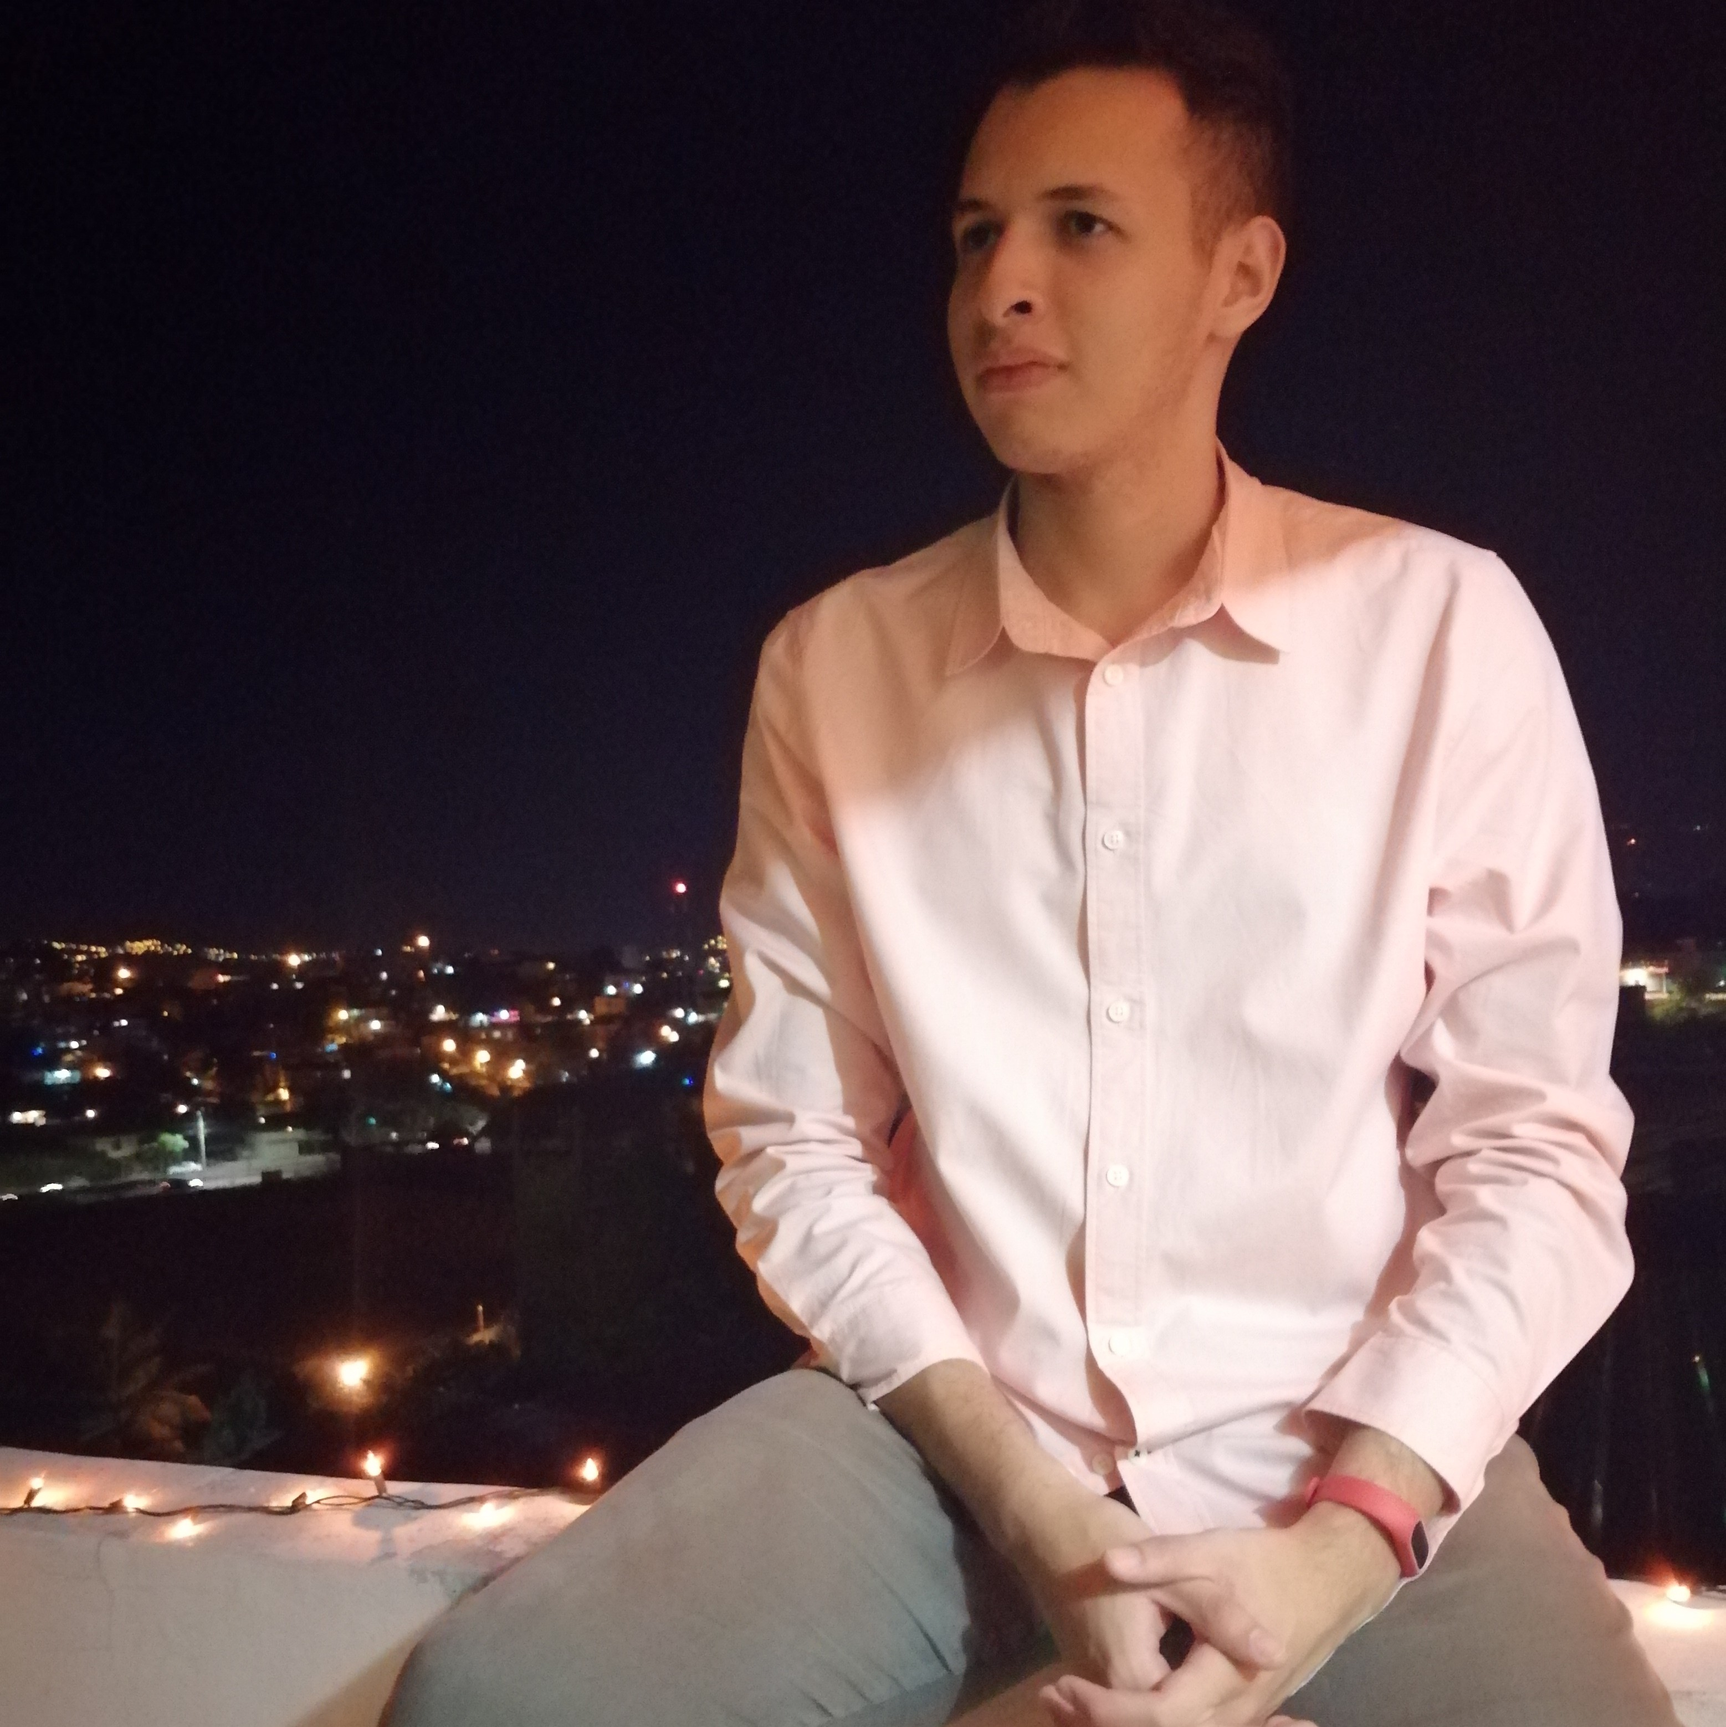
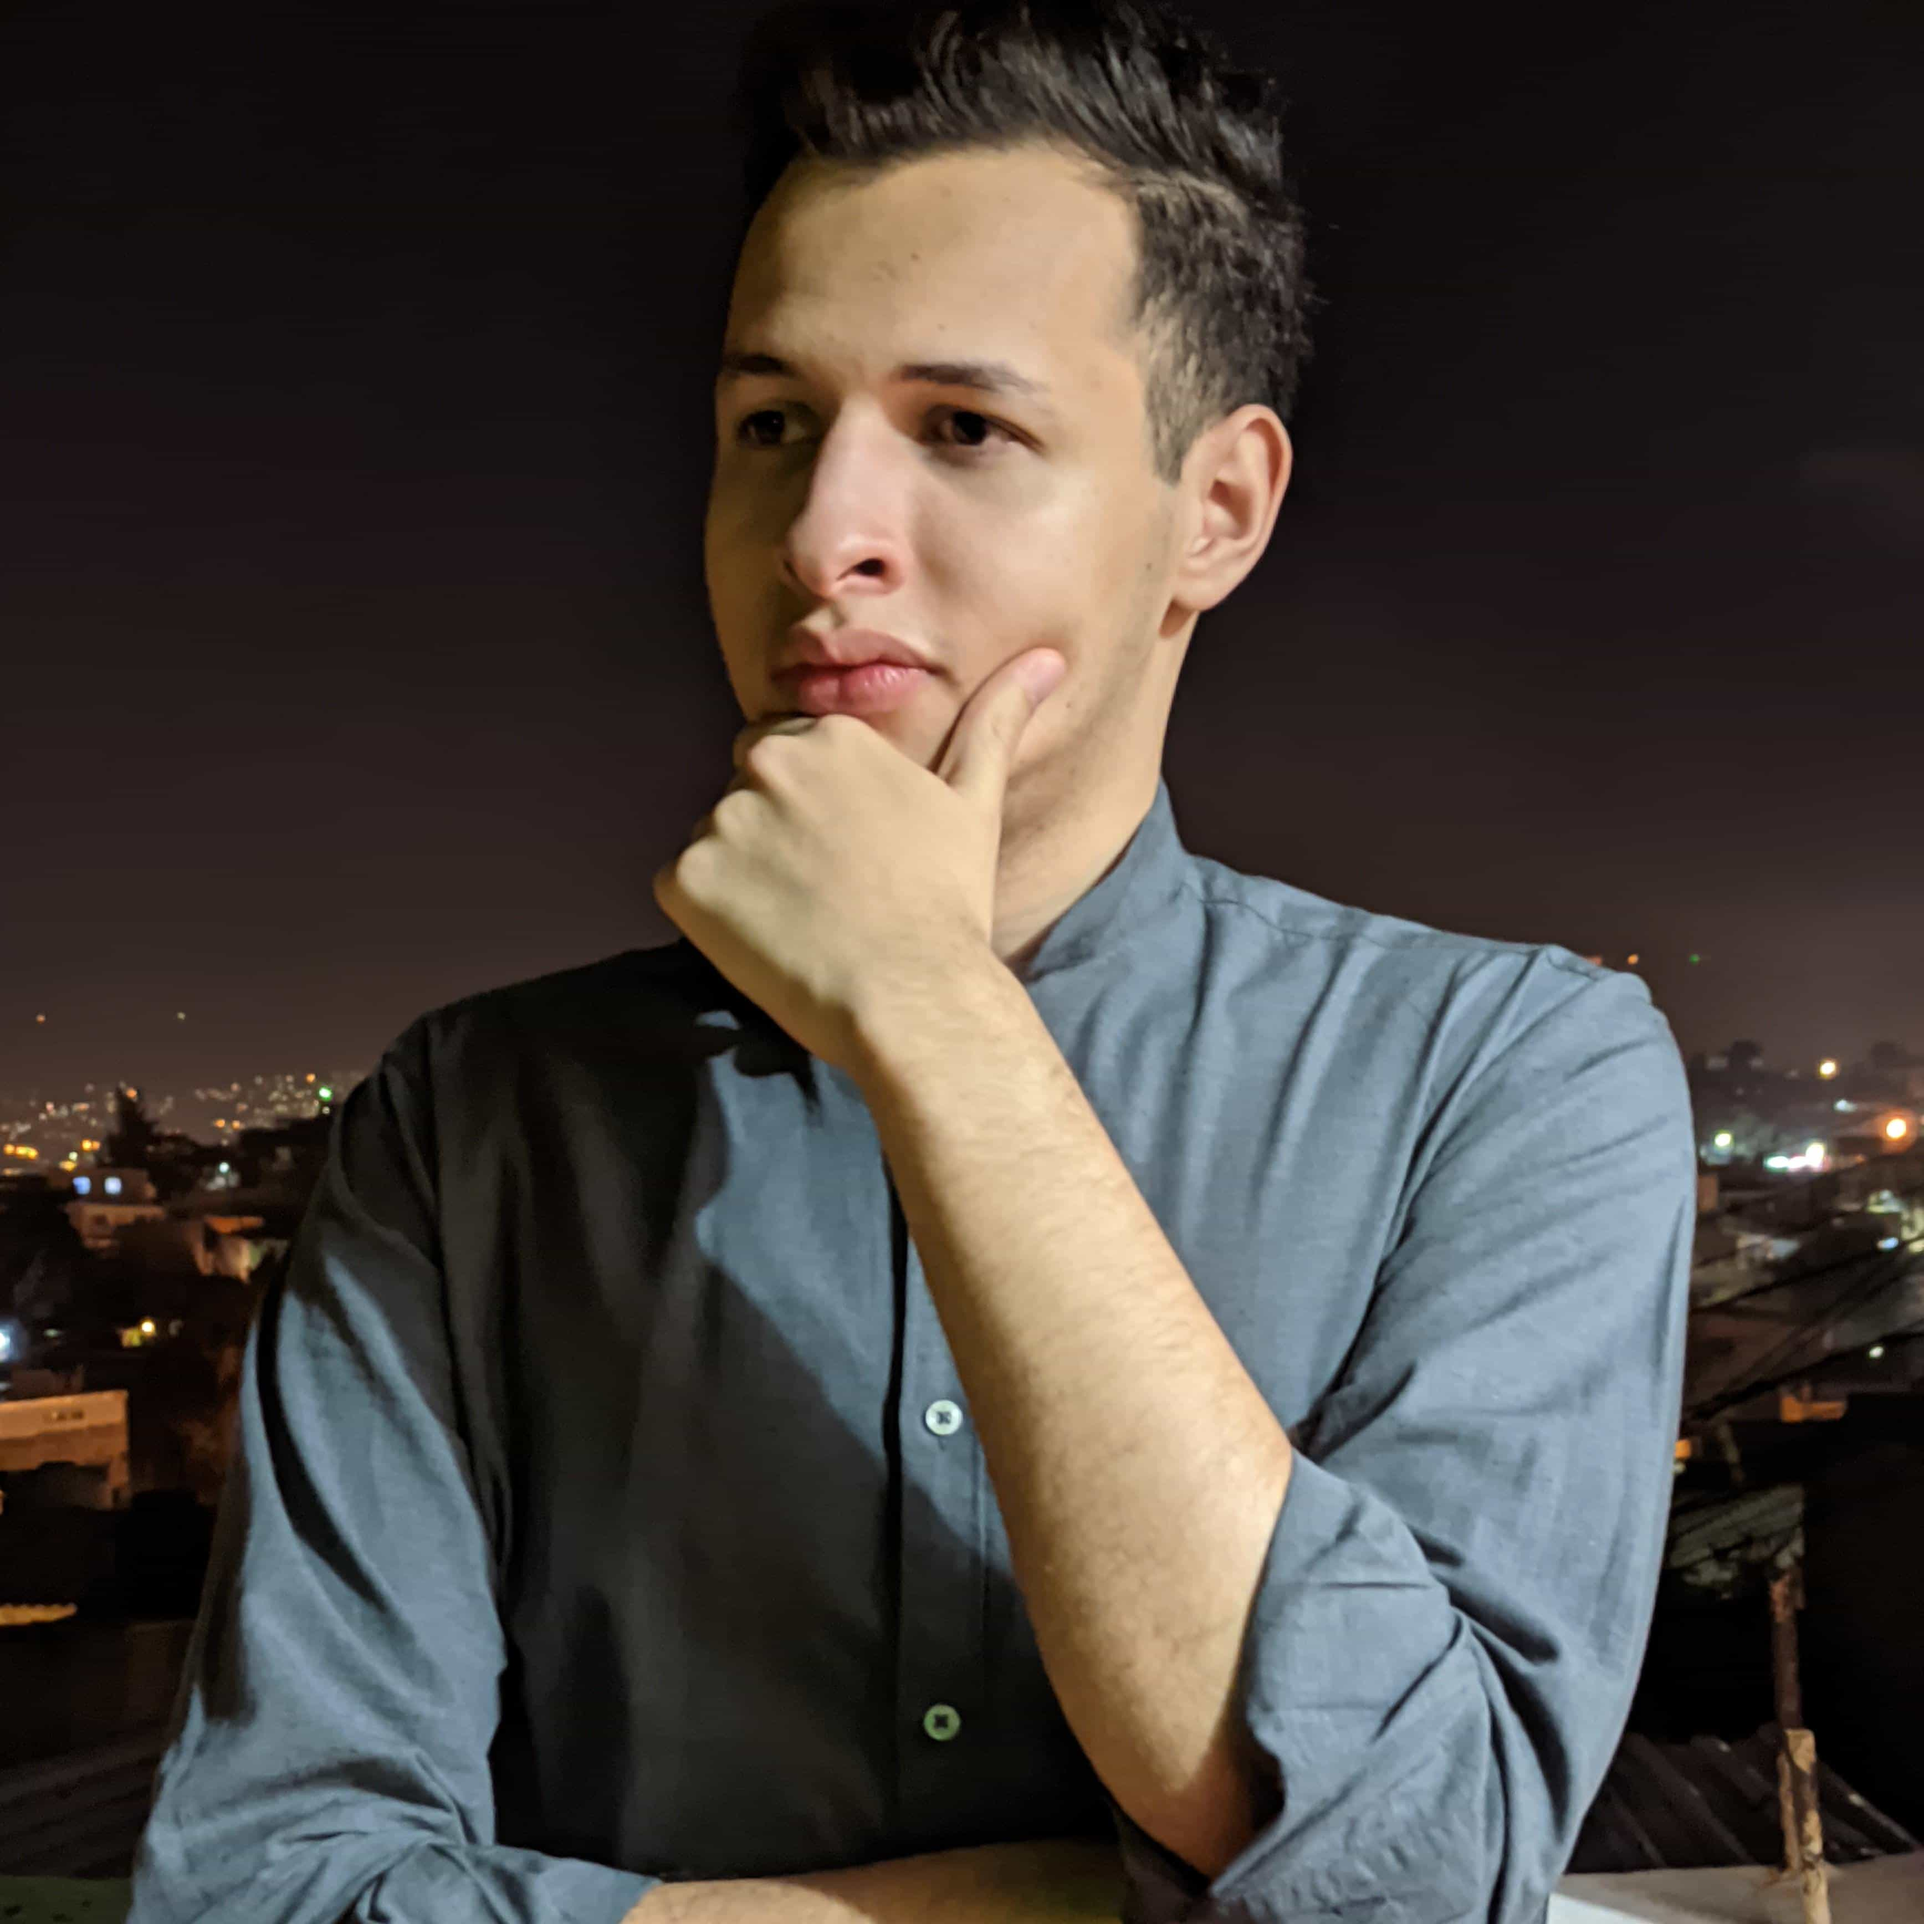
:rocket: Improving some things

diff --git a/data.js b/data.js
@@ -1,24 +1,24 @@
 const main = {
-  name: 'Roberto Ramírez',
-  mail: 'robertrafyt2007@gmail.com',
-  img: './assets/img/user.jpg',
-  role: ['Junior Developer'],
+  name: "Roberto Ramírez",
+  mail: "robertrafyt2007@gmail.com",
+  img: "./assets/img/user.jpg",
+  role: ["👨🏻💻 Junior Software Engineer 🚀"],
   // Refer https://ionicons.com/ and put the icon name inside iconName key
   connects: [
+    // {
+    //   name: "Home",
+    //   iconName: "logo-firefox",
+    //   link: "https://robertraf.github.io/",
+    // },
     {
-      name: 'Home',
-      iconName: 'logo-firefox',
-      link: 'https://robertraf.github.io/'
+      name: "Github",
+      iconName: "logo-github",
+      link: "https://github.com/robertraf",
     },
     {
-      name: 'Github',
-      iconName: 'logo-github',
-      link: 'https://github.com/robertraf'
-    },
-    {
-      name: 'Linkedin',
-      iconName: 'logo-linkedin',
-      link: 'https://www.linkedin.com/in/roberto-ram%C3%ADrez-b753b9189/'
+      name: "Linkedin",
+      iconName: "logo-linkedin",
+      link: "https://www.linkedin.com/in/roberto-ram%C3%ADrez-b753b9189/",
     },
     /*{
       name: 'StackOverflow',
@@ -26,9 +26,9 @@ const main = {
       link: 'https://stackoverflow.com/users/6940525/sivanesh-s'
     },*/
     {
-      name: 'Twitter',
-      iconName: 'logo-twitter',
-      link: 'https://twitter.com/robert_raf'
+      name: "Twitter",
+      iconName: "logo-twitter",
+      link: "https://twitter.com/robert_raf",
     },
     /*{
       name: 'npm',
@@ -36,13 +36,13 @@ const main = {
       link: 'https://www.npmjs.com/~sivanesh_s'
     },*/
     {
-      name: 'Mail',
-      iconName: 'mail-outline',
-      link: `mailto:${'robertrafyt2007@gmail.com'}?Subject=Hello%20again`
-    }
+      name: "Mail",
+      iconName: "mail-outline",
+      link: `mailto:${"robertrafyt2007@gmail.com"}?Subject=Hello%20again`,
+    },
   ],
   links: [
-    { name: 'Projects', link: '#projects' },
-    { name: 'Blogs', link: '#blogs' }
-  ]
+    { name: "Projects", link: "#projects" },
+    { name: "Blogs", link: "#blogs" },
+  ],
 };

diff --git a/index.html b/index.html
@@ -4,7 +4,7 @@
   <meta charset="UTF-8">
   <meta name="viewport" content="width=device-width, initial-scale=1.0">
   <title>Document</title>
-  <link rel="shortcut icon" href="./user.png" />
+  <link rel="shortcut icon" href="./assets/img/user.jpg" />
 
   <!-- StyleSheets -->
   <link href="https://unpkg.com/tailwindcss@^1.0/dist/tailwind.min.css" rel="stylesheet">
